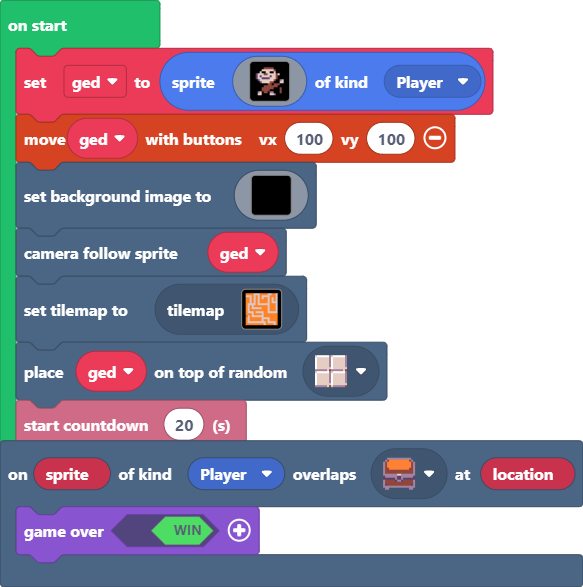
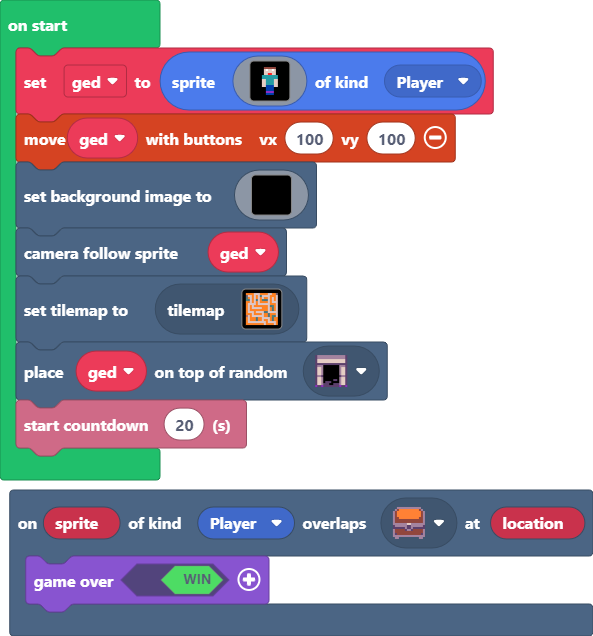
Update main.blocks, main.ts, tilemap.g.jres, tilemap.g.ts

diff --git a/tilemap.g.ts b/tilemap.g.ts
@@ -6,24 +6,24 @@ namespace myTiles {
     helpers._registerFactory("tilemap", function(name: string) {
         switch(helpers.stringTrim(name)) {
             case "level1":
-            case "level1":return tiles.createTilemap(hex`1000100001010101030303010101010303010103030303010301030103030303010101030101030103010301030101030103010301010301030103010101010301030103010103010301030101010103010303030103030303010303030303030101010301030103010101010101010301010103010301030303030301010103010101030103010101010101010101030101010301030303010303030301010303030303010101030101010103010101010101010203010303030303030101010101010101030101010101010303030301010101010301010101010103010103010101010103030303030303030301030303030101010101010101010103010101010301`, img`
[1 lines of base64/hex data omitted]
 2 2 2 2 . . . 2 2 2 2 . . 2 2 . 
-. . . 2 . 2 . 2 . . . . 2 2 2 . 
-2 2 . 2 . 2 . 2 . 2 2 . 2 . 2 . 
-2 2 . 2 . 2 . 2 2 2 2 . 2 . 2 . 
+. . . 2 . 2 . . . . . . 2 2 2 . 
+. 2 . 2 . 2 . 2 . 2 2 . 2 . 2 . 
+. . . 2 . . . 2 . . . . 2 . 2 . 
 2 2 . 2 . 2 . 2 2 2 2 . 2 . . . 
 2 . . . . 2 . . . . . . 2 2 2 . 
-2 . 2 . 2 2 2 2 2 2 2 . 2 2 2 . 
-2 . 2 . . . . . 2 2 2 . 2 2 2 . 
-2 . 2 2 2 2 2 2 2 2 2 . 2 2 2 . 
-2 . . . 2 . . . . 2 2 . . . . . 
-2 2 2 . 2 2 2 2 . 2 2 2 2 2 2 2 
-. . 2 . . . . . . 2 2 2 2 2 2 2 
-2 . 2 2 2 2 2 2 . . . . 2 2 2 2 
-2 . 2 2 2 2 2 2 . 2 2 . 2 2 2 2 
+2 . 2 . 2 2 2 2 2 2 2 . . . 2 . 
+2 . 2 . . . . . 2 2 2 . 2 . 2 . 
+2 . 2 2 2 2 2 2 2 2 2 . 2 . 2 . 
+2 . . . 2 . . . . . . . . . . . 
+2 2 2 . 2 2 2 2 . 2 2 . 2 2 2 . 
+. . 2 . . . . . . 2 2 . 2 . . . 
+2 . 2 2 2 . 2 2 . . . . 2 . 2 2 
+2 . 2 2 2 . 2 2 . 2 2 . 2 . 2 2 
 2 . . . . . . . . . 2 . . . . 2 
 2 2 2 2 2 2 2 2 2 . 2 2 2 2 . 2 
-`, [myTiles.transparency16,sprites.dungeon.hazardLava1,sprites.dungeon.chestClosed,sprites.dungeon.floorLight0], TileScale.Sixteen);
+`, [myTiles.transparency16,sprites.dungeon.hazardLava1,sprites.dungeon.chestClosed,sprites.dungeon.floorLight0,sprites.dungeon.doorOpenWest,sprites.dungeon.doorOpenNorth,sprites.dungeon.greenOuterSouth0,sprites.dungeon.greenOuterSouthEast,sprites.dungeon.greenOuterWest1,sprites.dungeon.greenOuterNorthEast,sprites.dungeon.greenOuterEast0,sprites.dungeon.greenOuterNorthWest,sprites.dungeon.greenOuterNorth1], TileScale.Sixteen);
         }
         return null;
     })

diff --git a/main.ts b/main.ts
@@ -2,22 +2,22 @@ scene.onOverlapTile(SpriteKind.Player, sprites.dungeon.chestClosed, function (sp
     game.over(true)
 })
 let ged = sprites.create(img`
-    . . . . . f f f f f . . . . . . 
-    . . . . f e e e e e f . . . . . 
-    . . . f d d d d d d e f . . . . 
-    . . f d f f d d f f d f f . . . 
-    . c d d d e e d d d d e d f . . 
-    . c d c d d d d c d d e f f . . 
-    . c d d c c c c d d d e f f f f 
-    . . c d d d d d d d e f f b d f 
-    . . . c d d d d e e f f f d d f 
-    . . . . f f f e e f e e e f f f 
-    . . . . f e e e e e e e f f f . 
-    . . . f e e e e e e f f f e f . 
-    . . f f e e e e f f f f f e f . 
-    . f b d f e e f b b f f f e f . 
-    . f d d f f f f d d b f f f f . 
-    . f f f f f f f f f f f f f . . 
+    . . . . . . . . . . . . . . . . 
+    . . . . . e e e e e e . . . . . 
+    . . . . . d 1 d d 1 d . . . . . 
+    . . . . . d d d d d d . . . . . 
+    . . . . . d d 2 2 d d . . . . . 
+    . . . . 6 6 6 6 6 6 6 6 . . . . 
+    . . . . 6 6 6 6 6 6 6 6 . . . . 
+    . . . . d d 6 6 6 6 d d . . . . 
+    . . . . d d 6 6 6 6 d d . . . . 
+    . . . . d d 6 6 6 6 d d . . . . 
+    . . . . d d 8 8 8 8 d d . . . . 
+    . . . . . . 8 8 8 8 . . . . . . 
+    . . . . . . 8 8 8 8 . . . . . . 
+    . . . . . . a a a a . . . . . . 
+    . . . . . . 8 8 8 8 . . . . . . 
+    . . . . . . f f f f . . . . . . 
     `, SpriteKind.Player)
 controller.moveSprite(ged, 100, 100)
 scene.setBackgroundImage(img`
@@ -144,5 +144,5 @@ scene.setBackgroundImage(img`
     `)
 scene.cameraFollowSprite(ged)
 tiles.setCurrentTilemap(tilemap`level1`)
-tiles.placeOnRandomTile(ged, sprites.dungeon.floorLight0)
+tiles.placeOnRandomTile(ged, sprites.dungeon.doorOpenNorth)
 info.startCountdown(20)
